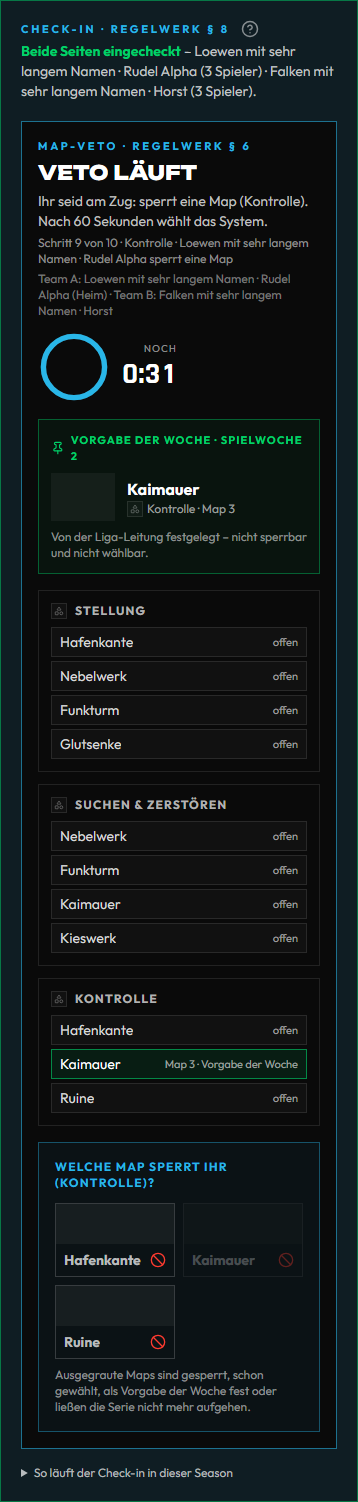
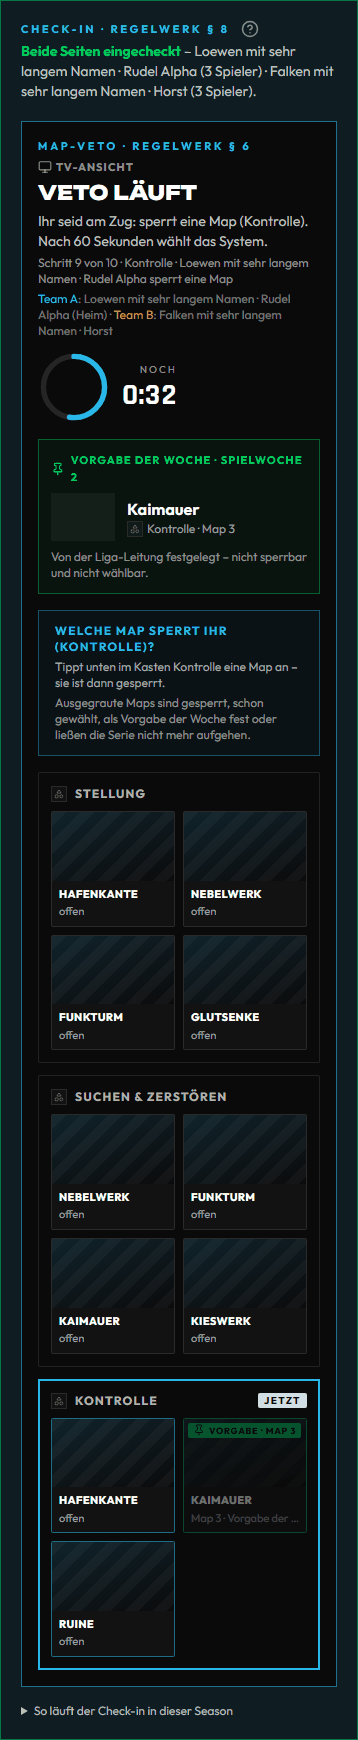
docs: Map-Veto live in LIGA.md (D.4), Handbuch und Hilfe (#1651)
- LIGA.md: Abschnitt D.4 - kurzer Abruf mit Rechten und Zuschauer-Sicht,
  neue Felder im Veto-Block, Takt, Serverzeit, Darstellung und Detail-
  Runde, Barrierefreiheit, TV-Ansicht, Erinnerung „Map-Veto wartet“,
  Datenschutz.
- Handbuch Liga 3.1c und Captains: Karten, Ablauf, live, Erinnerung,
  Zuschauer und TV; neue Bilder (390, 1440, TV 1920), das Bild „Veto mit
  Vorgabe“ zeigt jetzt die Karten.
- Hilfe „Map-Veto“: Karten, Ablauf und Aktualisierung (Bild unverändert).

Changed region(s): [[0.0615, 0.0, 0.9525, 1.0], [0.7682, 0.8575, 0.7989, 0.8881]]

diff --git a/docs/LIGA.md b/docs/LIGA.md
@@ -2491,7 +2491,7 @@ sobald beide Seiten eingecheckt sind – so sieht jede Seite ohne Neuladen, dass
 Vorgabe (`.tls-veto-preset` in `index.css`) hebt sich beim Aufbau 6 px an und blendet ein (`--tls-motion-mid`, `--tls-ease`), gestaffelt
 um 40 ms je Karte wie die übrigen Map-Karten (`--tls-i`), danach leuchtet ihr Rahmen einmal auf (`--tls-motion-glow`). Bewegt werden nur
 `transform` und `opacity`; die Karte erscheint einmal, das Nachfragen baut sie nicht neu auf. Mit „Bewegung reduzieren“ ist sie sofort da. D.3 zeigt das schlicht im Check-in-Block (wer am Zug ist, Countdown, verbleibende Maps je Modus,
-Wählen, Verlauf, am Ende die Spielreihenfolge) mit kurzem Polling alle 3 Sekunden; die Live-Oberfläche mit Animationen ist D.4.
+Wählen, Verlauf, am Ende die Spielreihenfolge) mit kurzem Polling alle 3 Sekunden; die Live-Oberfläche mit Animationen ist D.4 (unten).
 
 **Datenschutz:** `flow.veto` ist intern (`flow` in `match_public_view.INTERNAL_KEYS`); `planned_games` ist öffentlich (keine Personen).
 Auskunft `league_checkin` (`match_flow.export_snapshot`) nennt je Spiel die eigenen Züge (`veto_step`: Schritt, Art, Zeit, Seite) und
@@ -2542,9 +2542,85 @@ die Variable verwendet, und die Regel selbst bleibt freigegeben.
 Beides ist Teil von Fingerabdruck und Vorschlag: Eine geänderte Vorlage löst „Regelwerk muss freigegeben werden“ aus (`data_changes`,
 `pending_release`), die veröffentlichte Fassung zeigt bis zur Freigabe ihren Stand von damals.
 
-**App und TV:** lesen weiter `status` und `started_at`; `mobile/` unverändert. **Audit-Aktionen neu:** `match.veto.start`,
+**App und TV:** lesen weiter `status` und `started_at`; `mobile/` unverändert. Die TV-Ansicht des Vetos kommt mit D.4 (`/display/veto/<Spiel>`). **Audit-Aktionen neu:** `match.veto.start`,
 `match.veto.step`, `match.veto.done`, `match.veto.lead`, `league.season.veto_rules`; seit #2326 `match.veto.waiting`, `match.veto.ready`, `match.veto.ready_side`
 und `league.season.veto_presets`.
+
+### D.4 Veto live (#1651)
+
+Die Live-Oberfläche des Vetos aus D.3 für beide Captains, Zuschauer und TV. **Der Zustandsautomat bleibt unverändert** (`league_veto`:
+Start, Zug, Zeit, Leitung) - D.4 liest nur, dazu kommt die Erinnerung „Map-Veto wartet“. **Migration: keine.** Kein WebSocket: Live
+heißt kurzer Abruf, dazu der Änderungsstrom (ein Zug ist ein `POST`, der Strom meldet ihn).
+
+**Kurzer Abruf** `GET /api/matches/{id}/veto` (`routes/league_veto_routes.py`, `?display=1`, `?key=`): der Veto-Block ohne die ganze
+Matchseite, dazu `now` (Serverzeit), `state` (Stand des Check-ins, nur Beteiligte) und `match` (`{id, tournament_title, matchday_label,
+scheduled_at, sides[]}` - was die öffentliche Matchseite ohnehin zeigt). Ohne Vorlage an der Staffel oder bei klassischen Spielen
+`{veto: null}`.
+
+| Wer | Was | Schreibt |
+| --- | --- | --- |
+| Beteiligte (Captain, Vertreter, Kader - wie `involved` der Matchseite) und Leitung (`matches`) | derselbe Block wie `checkin.veto` der Matchseite (`league_veto.live_block`) | wie die Matchseite: `ensure_started`, `settle_due`; dazu `mark_seen` für die eigene Seite (siehe Erinnerung) |
+| alle anderen, `display=1` (TV) und mit `key` | die Sicht für Zuschauer (`league_veto.spectator_view`) | nichts - Start und Fristen löst der Aufruf der Beteiligten bzw. der Job (`league_veto`, alle 10 Sekunden) |
+
+Sichtbarkeit wie die Matchseite (`_assert_match_visible`: Staffel bzw. Season - die Season reicht ihre Sichtbarkeit an die Staffeln
+weiter, `staffel_visibility`). Mit dem **Anzeige-Schlüssel** des Turniers (`key`, wie Turnierbaum und Stationen, `DISPLAY_GRANT`) auch
+ohne Anmeldung und für Staffeln „Nur Mitglieder“; abgelaufen 403 wie dort. **Zuschauer-Sicht:** `own_turn`/`can_pick` falsch,
+`own_side`, `options`, `lead`, `start`, `blocked` leer, bei einer Pause ohne `paused.reason` (den Grund schreibt die Leitung frei) und mit
+`pick_hint` „Das Veto ist pausiert – die Liga-Leitung setzt es fort.“; vor dem Start nur die Vorgabe der Woche. Personen stehen nie im
+Block, nur die Namen der Seiten. Die Matchseite liefert Zuschauern denselben Block als `veto_view` (nur ohne `checkin`); Beteiligte
+bekommen `veto_view: null`.
+
+**Neue Felder im Veto-Block** (Matchseite und Abruf, nur lesend): `plan[]` - der ganze Ablauf als Zeitleiste, je Schritt der Vorlage
+`{index, number, kind, mode, mode_label, mode_icon_url?, side ("A"|"B"|null), name, position, state ("done"|"current"|"open"), map_id,
+map_name, map_image_url, via}` (`league_veto._plan_rows`, ohne Personen); `remaining[].maps[].side` (welche Seite gesperrt bzw. gewählt
+hat); `own_side` (die eigene Seite, sonst `null`); `server_now` (ISO, Zeitpunkt der Antwort).
+
+**Takt** (`frontend/src/lib/leagueVeto.js`, `vetoPollMs`; `hooks/useVetoPolling.js`): läuft 2 s, Pause 5 s, Warten auf „Bereit“ oder die
+Vorgabe 3 s (nur mit beiden Seiten eingecheckt), sonst nie; im Hintergrund-Tab (`document.hidden`) gar nicht, beim Zurückkommen
+(`visibilitychange`) sofort einmal; kurz nach der Frist (800 ms) einmal extra, dann steht die Zufallswahl. Die Matchseite übernimmt die
+Antwort in den geladenen Stand (`mergeLiveVeto`): Bleiben Stand und Status gleich, ersetzt sie nur den Veto-Block; beginnt oder endet das
+Veto, lädt die Seite einmal ganz (Start-Knopf, Meldeformular). Der TV fragt vor dem Start und nach dem Ende alle 10 Sekunden.
+
+**Countdown nach der Serverzeit:** Abstand Serveruhr - Geräteuhr aus `server_now` (`vetoClockOffset`, wie `seasons/clock.serverOffset`),
+die Frist des Servers wird in Geräte-Zeit umgerechnet (`vetoDeadline(block, offset)`) - ein Gerät, das Minuten nachgeht, zählt trotzdem
+richtig. Läuft die Zeit ab, steht „Zeit um“; gewählt wird nur auf dem Server (Nr. 23).
+
+**Darstellung** (`components/tls/league/VetoLive.jsx`, Regeln in `index.css` „Map-Veto live“, TV in `tv.css`): Map-Karten mit Bild im Stil
+der Veto-Karten der Team-Liga (`maps.css`, #1616); Team A blau (`--tls-brand`), Team B orange (`--tls-warn`), Decider gold, Vorgabe der
+Woche grün. Zustände: offen; gesperrt (gedimmt, leicht abgesenkt, Bann-Symbol, „gesperrt von …“); gewählt (Schild „Map N“ in der Farbe
+der Seite); Decider; Vorgabe der Woche (wie #2326). Ist die eigene Seite am Zug, sind die Karten des laufenden Modus die Auswahl
+(`veto-option-*`), nicht wählbare ausgegraut mit Hinweis. **Detail-Runde:** gestaffelter Aufbau (40 ms je Karte), Anheben eigener
+wählbarer Karten unter dem Zeiger (nur `hover: hover` und `pointer: fine`), Nachgeben beim Antippen, einmaliges Aufleuchten jeder Wahl und
+jeder Aktion der Gegenseite (die eigene Sperre dimmt nur; Zuschauer sehen jede Aktion als neu; `freshCards`), ein nachzeichnender Rahmen
+um den Modus des laufenden Zugs (vier Kanten, `scale`). Bewegt werden nur `transform` (auch `translate`/`scale`) und `opacity`, mit den
+Bewegungs-Variablen; „Bewegung reduzieren“ (bzw. am TV „Bewegung aus“) zeigt alles sofort, der Ring läuft dann ohne Bild-Schleife.
+Countdown: Ring und Restzeit, die letzten 10 Sekunden rot und ruhig atmend (nur ohne „Bewegung reduzieren“). **Ablauf-Leiste:** jeder
+Schritt mit Art, Seite, Modus und Ziel; fertige zeigen die Map (Zufallswahl mit Symbol), der laufende ist markiert und rückt in der Leiste
+in die Mitte (nur die Leiste scrollt). **Stabile Schlüssel:** Karten `Modus:Map`, Schritte nach Index, Rahmen nach Schritt - der Abruf
+baut nichts neu auf, spielt nichts ab, der Fokus bleibt.
+
+**Barrierefreiheit:** Karten sind Knöpfe mit Namen und Zustand („Hafen: offen – antippen zum Sperren“); Schritte der Leiste mit Satz
+(„Schritt 2 von 11: Falken sperrt eine Map (Stellung) – läuft“, `aria-current="step"`); der Countdown sagt höflich nur bei 30, 10 und 5
+Sekunden und beim Ablauf an; der letzte Schritt steht in einer höflichen Ansage.
+
+**Zuschauer und TV:** Die Matchseite zeigt Zuschauern das laufende Veto nur lesend (`readOnly`, ohne Auswahl, Eingriff und Bereit-Block).
+**TV** `/display/veto/<Spiel>` (`pages/display/VetoTVPage.jsx`, ohne Anmeldung wie der Event-TV, `?key=` für Staffeln „Nur
+Mitglieder“): links wer am Zug ist mit großem Countdown, rechts das Brett je Modus, darunter der Ablauf; nach dem Ende die Spielreihenfolge
+als große Karten; QR-Code zur Matchseite. Link „TV-Ansicht“ im Veto-Block der Matchseite.
+
+**Erinnerung „Map-Veto wartet“** (`league_veto.nudge_target`/`nudge_due`, Job `league_veto` nach dem Auflösen der Fristen,
+`league_veto_sweep.nudge`): an Captain und Vertreter der Seite am Zug (`responsible_user_ids`), Art `match_call`, Thema Match-Erinnerungen,
+`meta.reason` `veto_turn`, Schlüssel `veto-turn:<spiel>:<started_at>:<schritt>:<seite>` - **höchstens eine je Schritt und Seite**
+(Merker `flow.veto_nudge = {key, at}` mit Bedingung auf Version und Schlüssel). Fällig, wenn: das Veto läuft, der Schritt ein Zug einer
+Seite ist (nie Decider oder Vorgabe), seit **20 Sekunden** kein Zug (Zeit je Schritt minus Rest), noch mindestens **5 Sekunden** übrig,
+die Staffel nicht gesperrt und die Seite das Veto **nicht offen** hat. „Offen“ heißt: Captain oder Vertreter der Seite hat in den letzten
+**15 Sekunden** den kurzen Abruf gemacht - der sichtbare Tab fragt alle 2 Sekunden, im Hintergrund nie. Der Abruf vermerkt das als
+`flow.veto_seen.<Anmeldung> = <Zeit>` (höchstens alle 5 Sekunden ein Schreiben, nur solange das Veto läuft, ohne Person und ohne
+`updated_at`). Die Werte stehen als Konstanten in `league_veto.py` (`NUDGE_IDLE_SECONDS` usw.); einstellbar machen kann sie #1647.
+Satz: „Ihr seid im Map-Veto am Zug: sperrt eine Map (Stellung). Noch 35 Sekunden – danach wählt das System.“
+
+**Datenschutz:** `flow.veto_seen` und `flow.veto_nudge` sind intern wie `flow` (keine Personen, nur Anmeldungen und Zeiten); die
+Zuschauer-Sicht nennt keine Personen und keinen Grund einer Pause.
 
 ### Season-Seite der Verwaltung (#2267)
 

diff --git a/docs/handbuch/liga-captains.md b/docs/handbuch/liga-captains.md
@@ -54,7 +54,7 @@ Den Stand siehst du auf der Ligaseite und unter **Teams → Deine Teams**:
 | **Schweigen zählt:** Antwortet ihr als Gastseite nicht auf einen Vorschlag der Heimseite, gilt er nach **72 Stunden** (wenn er in der Spielwoche liegt). Hat die Heimseite mehrere Termine vorgeschlagen, gilt der **früheste**. Die Matchseite sagt, ab wann. | Matchseite → **Termin und Verschiebung** | 72 Stunden ab dem Vorschlag, Sperrzeiten zählen nicht |
 | **Verschieben:** Steht der Termin fest (Einigung, 72-h-Regel oder Leitung), gibt es keine neuen Vorschläge mehr. Neuen Termin und **Grund** eintragen → **Beantragen**; die andere Seite tippt **Zustimmen** oder **Ablehnen**, ihr könnt **Zurückziehen**. Bis zur Zustimmung gilt der alte Termin. Die Seite zeigt, wie viele noch gehen und bis wann („Noch 1 Verschiebung möglich, beantragen bis Sa 14.11. 20:00“). Darunter steht der **Verlauf** des Termins. | Matchseite → **Termin und Verschiebung**; offene Anträge der Gegenseite auch unter **Offene Aktionen** („Verschiebung beantworten“, beantworten im Web) | spätestens **24 Stunden** vor dem Termin, höchstens **zweimal** je Spiel, in derselben Spielwoche – alles darüber entscheidet die Liga-Leitung (**@leitung** im Matchchat) |
 | **Einchecken:** 15 Minuten vor dem Termin geht auf der Matchseite der Block **Check-in** auf (ihr bekommt eine Nachricht, der Ring zählt herunter). Hakt an, **wer da ist** – mindestens **3**, nur aus eurem Kader, nur wer spielen darf (grau mit Grund = nicht wählbar; wer selbst betroffen ist, sieht oben „Du kannst so nicht einchecken“ und **Im Profil nachtragen**) – und tippt **Einchecken**. Dürfen zu wenige spielen, steht das schon vor dem Fenster da, und Einchecken geht erst nach dem Nachtragen. Bis zum Schluss könnt ihr Anwesende ergänzen. Ihr seht, ob die Gegenseite schon da ist. Hat euer Co-Team einer neuen Regelversion nicht zugestimmt, geht kein Check-in: Die Seite sagt es und führt zur neuen Fassung. | Matchseite → **Check-in**; auf der Startseite unter **Offene Aktionen** („Jetzt einchecken“) | von 15 Minuten vor bis **15 Minuten nach dem Termin**. Fehlt ihr danach, entscheidet die Liga-Leitung (kampflos, nachtragen oder verlängern) – gewertet wird nie von selbst |
-| **Map-Veto** (wenn eure Season eins hat): Sind beide Seiten eingecheckt, beginnt es von selbst. Seid ihr am Zug, tippt ihr eine Map an – **Sperren** oder **Wählen**, je nach Schritt; läuft die Zeit ab, wählt das System. Steht eine Map als **Vorgabe der Woche** da, hat die Liga-Leitung sie für diesen Spieltag festgelegt: Sie ist weder sperrbar noch wählbar und steht in der Spielreihenfolge fest. **Spielwoche heißt hier Spieltag:** Die Vorgabe von Spielwoche 3 gilt für alle Spiele des dritten Spieltags. Ein verschobenes Spiel bleibt in seiner Spielwoche und spielt deren Vorgabe, auch wenn es erst später stattfindet. Fehlt die Vorgabe noch, steht dort **Veto wartet auf die Vorgabe der Woche** – die Leitung bekommt einen Hinweis, gewertet wird nichts. Sobald sie eingetragen ist, bekommt ihr die Nachricht „Vorgabe da – Veto kann starten“, und auf der Matchseite steht **Vorgabe steht – bereit zum Veto?**: Tippt **Bereit zum Veto**. Die Seite zeigt, wer schon bereit ist („Ihr seid bereit – wartet auf die Gegenseite“); solange die Gegenseite fehlt, könnt ihr mit **Doch nicht bereit** zurücknehmen. Sind **beide Seiten** bereit, beginnt das Veto sofort. Erst ab da läuft die Zeit je Schritt, vorher gibt es keine Frist. Kann eine Seite nicht tippen, startet die Liga-Leitung im Notfall (**@leitung** im Matchchat). | Matchseite → **Check-in** → **Map-Veto** | je Schritt die Zeit der Season (Vorgabe 60 Sekunden) |
+| **Map-Veto** (wenn eure Season eins hat): Sind beide Seiten eingecheckt, beginnt es von selbst. Seid ihr am Zug, tippt ihr im markierten Modus eine Map-Karte an – **Sperren** oder **Wählen**, je nach Schritt; läuft die Zeit ab, wählt das System. Die Seite zieht von selbst mit: Der Zug der Gegenseite leuchtet auf, die Leiste **Ablauf** zeigt jeden Schritt (Team A blau, Team B orange) und der Countdown die Zeit des Servers. Habt ihr die Seite nicht offen und seid 20 Sekunden am Zug, kommt einmal die Nachricht **„Map-Veto wartet“**. Steht eine Map als **Vorgabe der Woche** da, hat die Liga-Leitung sie für diesen Spieltag festgelegt: Sie ist weder sperrbar noch wählbar und steht in der Spielreihenfolge fest. **Spielwoche heißt hier Spieltag:** Die Vorgabe von Spielwoche 3 gilt für alle Spiele des dritten Spieltags. Ein verschobenes Spiel bleibt in seiner Spielwoche und spielt deren Vorgabe, auch wenn es erst später stattfindet. Fehlt die Vorgabe noch, steht dort **Veto wartet auf die Vorgabe der Woche** – die Leitung bekommt einen Hinweis, gewertet wird nichts. Sobald sie eingetragen ist, bekommt ihr die Nachricht „Vorgabe da – Veto kann starten“, und auf der Matchseite steht **Vorgabe steht – bereit zum Veto?**: Tippt **Bereit zum Veto**. Die Seite zeigt, wer schon bereit ist („Ihr seid bereit – wartet auf die Gegenseite“); solange die Gegenseite fehlt, könnt ihr mit **Doch nicht bereit** zurücknehmen. Sind **beide Seiten** bereit, beginnt das Veto sofort. Erst ab da läuft die Zeit je Schritt, vorher gibt es keine Frist. Kann eine Seite nicht tippen, startet die Liga-Leitung im Notfall (**@leitung** im Matchchat). | Matchseite → **Check-in** → **Map-Veto** | je Schritt die Zeit der Season (Vorgabe 60 Sekunden) |
 | **Starten:** Sind beide Seiten eingecheckt und ist das Veto fertig, tippt eine Seite **Spiel starten – Map 1 läuft** – auch vor dem Termin. Ab da zählt die Spielzeit, verschieben geht nicht mehr. Ändert sich das Regelwerk dazwischen, stimmt ihr erst zu. | Matchseite → **Check-in** | sobald beide da sind |
 | **Ergebnis nicht vergessen:** Ist ein Spiel 24 Stunden nach dem Termin nicht gemeldet, kommt eine Erinnerung an beide Seiten; nach 48 Stunden entscheidet die Liga-Leitung. | Matchseite | 24 bzw. 48 Stunden nach dem Termin |
 | **Melden:** erst, wenn **beide Seiten eingecheckt** sind – sonst sagt die Matchseite, wer fehlt (in der App kommt der Satz beim Absenden). Hat niemand auf **Spiel starten** getippt, gilt das Spiel mit eurer Meldung als begonnen. Dann je Map Modus, **Map aus dem Pool** und den **Endstand** der Map – den **Sieger** ergeben die Punkte, antippen müsst ihr ihn nur bei Gleichstand (Endstand Pflicht; an jeder Map steht, wie sie gewertet wird, z. B. „bis 250 Punkte“ oder „6 Runden, höchstens 11“ – ein unpassender Endstand wird gleich angezeigt) – bis die Serie entschieden ist. Beim Bestätigen gelten die Punkte der ersten Meldung. Dieselbe Map im selben Modus gibt es je Serie nur einmal. Am Schluss einmal ankreuzen, **wer bei euch gespielt hat**: mindestens 3, bei Wechseln auch 6 und mehr, nur aus eurem Kader. Wer nicht spielen darf, steht grau mit Grund da. | Matchseite, **nur im Web** (die App lehnt eine erste Meldung ab) | nach dem Spiel |

diff --git a/docs/handbuch/liga.md b/docs/handbuch/liga.md
@@ -932,11 +932,22 @@ Mit dem Kasten aus 2.7d läuft nach dem Check-in das Map-Veto – auf der **Matc
 
 - **Start:** Sobald beide Seiten eingecheckt sind, beginnt das Veto von selbst; beide Seiten bekommen eine Nachricht („Veto läuft“),
   Team A (Heimteam, oder gelost) ist zuerst dran. Die Seite zeigt den laufenden Schritt („Schritt 3 von 11 · Stellung · Loewen wählt
-  Map 1“), einen Countdown und je Modus alle Maps mit Stand (offen, gesperrt, gewählt, Decider).
-- **Ziehen:** Captain oder Vertreter der Seite am Zug tippen eine Map an – **Sperren** oder **Wählen**, je nach Schritt. Ausgegraute
-  Maps sind gesperrt, schon gewählt oder würden die Serie nicht mehr aufgehen lassen (die Seite sagt es beim Antippen). Die übrige Map
-  eines Decider-Schritts setzt das System sofort. Ein Doppelklick oder ein zweites Gerät zählt nicht doppelt; war die Gegenseite schneller
-  oder die Zeit um, sagt die Seite „bitte neu laden“ und zeigt den neuen Stand (sie aktualisiert sich alle paar Sekunden von selbst).
+  Map 1“), einen Countdown, den **Ablauf** als Leiste (jeder Schritt mit Sperre/Wahl/Decider, Team A oder B und Modus; fertige Schritte
+  mit der Map, der laufende markiert) und je Modus alle Maps als **Karten mit Bild** (offen, gesperrt mit Bann-Zeichen und wer, gewählt
+  mit „Map 1“ in der Farbe der Seite, Decider, Vorgabe der Woche). Team A ist blau, Team B orange.
+- **Ziehen:** Captain oder Vertreter der Seite am Zug tippen im markierten Modus eine Karte an – **Sperren** oder **Wählen**, je nach
+  Schritt. Ausgegraute Maps sind gesperrt, schon gewählt oder würden die Serie nicht mehr aufgehen lassen (die Seite sagt es beim
+  Antippen). Die übrige Map eines Decider-Schritts setzt das System sofort. Ein Doppelklick oder ein zweites Gerät zählt nicht doppelt;
+  war die Gegenseite schneller oder die Zeit um, sagt die Seite „bitte neu laden“ und zeigt den neuen Stand.
+- **Live:** Die Seite aktualisiert sich von selbst – alle 2 Sekunden, solange das Veto läuft (im Hintergrund-Tab nicht, beim Zurückkommen
+  sofort). Ein Zug der Gegenseite leuchtet auf ihrer Karte kurz auf, der Ablauf rückt weiter. Der Countdown richtet sich nach der Uhr des
+  Servers, nicht nach der des Handys; die letzten 10 Sekunden sind rot. Mit „Bewegung reduzieren“ im Gerät steht alles sofort da.
+- **Erinnerung:** Ist eine Seite am Zug, hat 20 Sekunden lang nicht gezogen und die Matchseite nicht offen, bekommen Captain und Vertreter
+  einmal die Nachricht **„Map-Veto wartet – ihr seid am Zug“** (je Schritt höchstens einmal).
+- **Zuschauer und TV:** Wer nicht beteiligt ist, sieht das laufende Veto auf der Matchseite nur lesend (wenn die Staffel sichtbar ist).
+  Über **TV-Ansicht** im Veto-Block öffnet sich die Ansicht für den Bildschirm (`/display/veto/<Spiel>`): großer Countdown, wer am Zug
+  ist, Karten und Ablauf, danach die Spielreihenfolge. Für Staffeln „Nur Mitglieder“ hängt ihr den Anzeige-Schlüssel des Turniers an
+  (`?key=…`, aus eSports → TV & Beamer).
 - **Zeit:** Läuft die Zeit je Schritt ab, wählt das System zufällig aus den zulässigen Maps und schreibt es in den Verlauf („Zeit
   abgelaufen, das System hat gewählt“). Die nächste Seite hat wieder ihre volle Zeit.
 - **Ende:** Nach dem letzten Schritt steht die **Spielreihenfolge** (Map 1 bis Best of mit Modus und Map) – beide Seiten bekommen eine
@@ -977,6 +988,10 @@ Mit dem Kasten aus 2.7d läuft nach dem Check-in das Map-Veto – auf der **Matc
 <img src="../assets/liga/veto-mit-vorgabe-390.png" alt="Matchseite am Handy im Veto: über dem Brett der Block Vorgabe der Woche mit der Map Kaimauer für Kontrolle als Map 3, im Brett steht sie als Vorgabe der Woche, bei der Auswahl zum Sperren ist sie ausgegraut" width="300"> <img src="../assets/liga/veto-vorgabe-fehlt-390.png" alt="Matchseite am Handy: Veto wartet auf die Vorgabe der Woche, darunter der Satz für welche Spielwoche und welchen Modus sie fehlt und der Hinweis, dass nichts von selbst gewertet wird" width="300"> <img src="../assets/liga/veto-bereit-wartet-390.png" alt="Matchseite am Handy nach dem Nachtragen: Vorgabe steht – bereit zum Veto?, die eigene Seite ist bereit und wartet auf die Gegenseite, darunter der Knopf Doch nicht bereit und der Hinweis, dass erst ab dem Start die Zeit läuft" width="300">
 
 <img src="../assets/liga/veto-bereit-leitung.png" alt="Matchseite der Liga-Leitung am PC: eine Seite ist bereit, die andere noch nicht; darunter der Kasten Notfall: Veto starten mit dem Pflichtfeld Grund und dem Knopf Veto jetzt starten" width="640">
+
+<img src="../assets/liga/veto-live-390.png" alt="Matchseite am Handy im laufenden Veto: Countdown in Orange für Team B, darunter die Ablauf-Leiste mit dem laufenden Schritt, die Frage Welche Map sperrt ihr und das Brett mit Map-Karten - die gesperrte Hafenkante gedimmt mit Bann-Zeichen" width="300"> <img src="../assets/liga/veto-live-1440.png" alt="Matchseite am PC im laufenden Veto: Ablauf-Leiste mit elf Schritten, darunter je Modus die Map-Karten mit Bild; gesperrte Karten gedimmt, Nebelwerk als Map 1 von Team A in Blau gewählt, der Modus des laufenden Zugs gerahmt" width="640">
+
+<img src="../assets/liga/veto-live-tv-1920.png" alt="TV-Ansicht des Vetos: links großer Countdown und das Team am Zug, rechts je Modus die Map-Karten, unten der ganze Ablauf mit den fertigen Schritten und ihren Maps" width="640">
 
 ### 3.1a Turnier nach dem Ende noch „Live“
 
